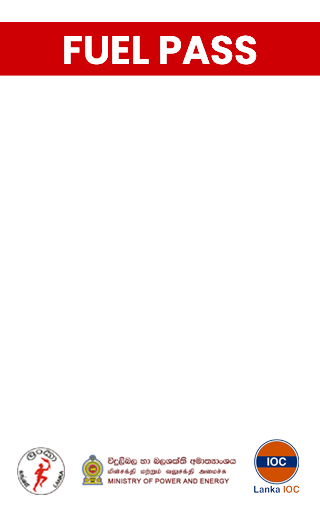
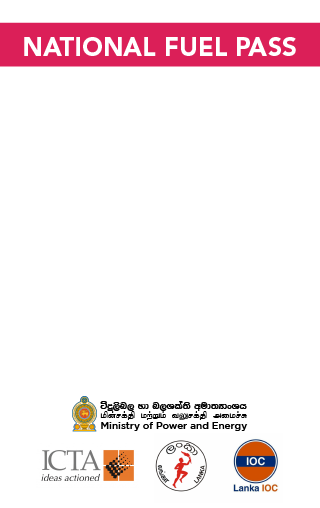
Remove Apple and Google Wallet generation logic, replacing it with unavailability alerts, and update the UI and a template image to reflect this change.

Changed region(s): [[0.0312, 0.7677, 0.9375, 0.9744], [0.0, 0.0295, 1.0, 0.1476]]

diff --git a/src/app/page.tsx b/src/app/page.tsx
@@ -50,45 +50,11 @@ export default function Home() {
   };
 
   const addToAppleWallet = async () => {
-    setWalletLoading('apple');
-    try {
-      const res = await fetch('/api/apple-wallet', {
-        method: 'POST',
-        headers: { 'Content-Type': 'application/json' },
-        body: JSON.stringify({ vehicleNumber, qrCodeUrl: qrCodeUrl || '' })
-      });
-      if (!res.ok) throw new Error("Failed to generate pass");
-      const blob = await res.blob();
-      const url = window.URL.createObjectURL(blob);
-      const link = document.createElement('a');
-      link.href = url;
-      link.download = `FuelPass-${vehicleNumber || 'Card'}.pkpass`;
-      link.click();
-    } catch (err) {
-      alert("Apple Wallet Generation Failed: " + (err instanceof Error ? err.message : String(err)));
-    } finally {
-      setWalletLoading(null);
-    }
+    alert("Currently not available");
   };
 
   const addToGoogleWallet = async () => {
-    setWalletLoading('google');
-    try {
-      const res = await fetch('/api/google-wallet', {
-        method: 'POST',
-        headers: { 'Content-Type': 'application/json' },
-        body: JSON.stringify({ vehicleNumber, qrCodeUrl: qrCodeUrl || '' })
-      });
-      if (!res.ok) throw new Error("Failed to generate JWT");
-      const data = await res.json();
-      if (data.url) {
-        window.open(data.url, '_blank');
-      }
-    } catch (err) {
-      alert("Google Wallet Generation Failed: " + (err instanceof Error ? err.message : String(err)));
-    } finally {
-      setWalletLoading(null);
-    }
+    alert("Currently not available");
   };
 
   return (
@@ -165,21 +131,19 @@ export default function Home() {
               <Share2 size={18} /> Share Pass
             </button>
 
-            <div className="pt-6 mt-4 space-y-3 border-t border-border">
-              <h3 className="text-xs font-bold uppercase tracking-wider text-muted-foreground mb-3 px-1">Digital Wallets</h3>
+            <div className="pt-6 mt-4 space-y-3 border-t border-border opacity-60">
+              <h3 className="text-xs font-bold uppercase tracking-wider text-muted-foreground mb-3 px-1">Digital Wallets (Unavailable)</h3>
               <button 
                  onClick={addToAppleWallet}
-                 disabled={walletLoading !== null}
-                 className="w-full flex items-center justify-center gap-2 bg-black dark:bg-gray-800 text-white hover:bg-black/90 dark:hover:bg-gray-700 py-3 rounded-xl font-medium transition-all shadow-sm"
+                 className="w-full flex items-center justify-center gap-2 bg-black dark:bg-gray-800 text-white py-3 rounded-xl font-medium transition-all shadow-sm cursor-not-allowed"
               >
-                <Smartphone size={18} /> {walletLoading === 'apple' ? 'Generating...' : 'Add to Apple Wallet'}
+                <Smartphone size={18} /> Add to Apple Wallet
               </button>
               <button 
                  onClick={addToGoogleWallet}
-                 disabled={walletLoading !== null}
-                 className="w-full flex items-center justify-center gap-2 bg-[#4285F4] hover:bg-[#3367d6] text-white py-3 rounded-xl font-medium transition-all shadow-sm"
+                 className="w-full flex items-center justify-center gap-2 bg-[#4285F4] text-white py-3 rounded-xl font-medium transition-all shadow-sm cursor-not-allowed"
               >
-                <Smartphone size={18} /> {walletLoading === 'google' ? 'Generating...' : 'Add to Google Wallet'}
+                <Smartphone size={18} /> Add to Google Wallet
               </button>
             </div>
           </div>
